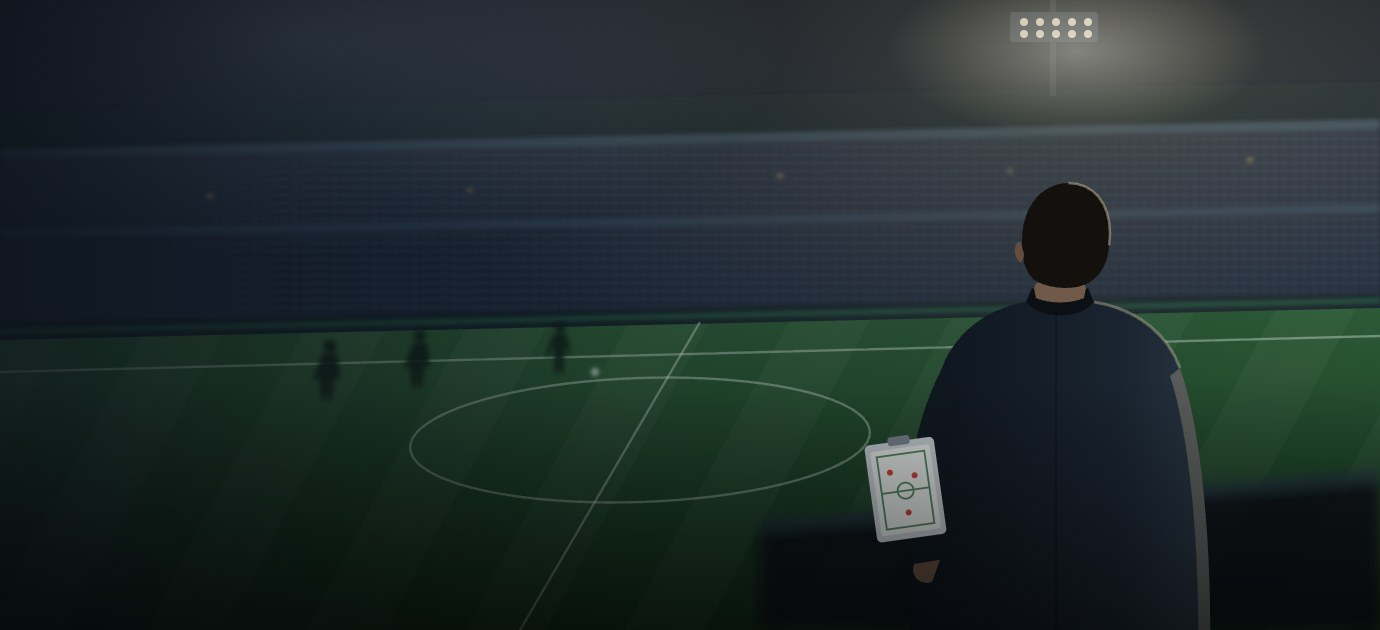
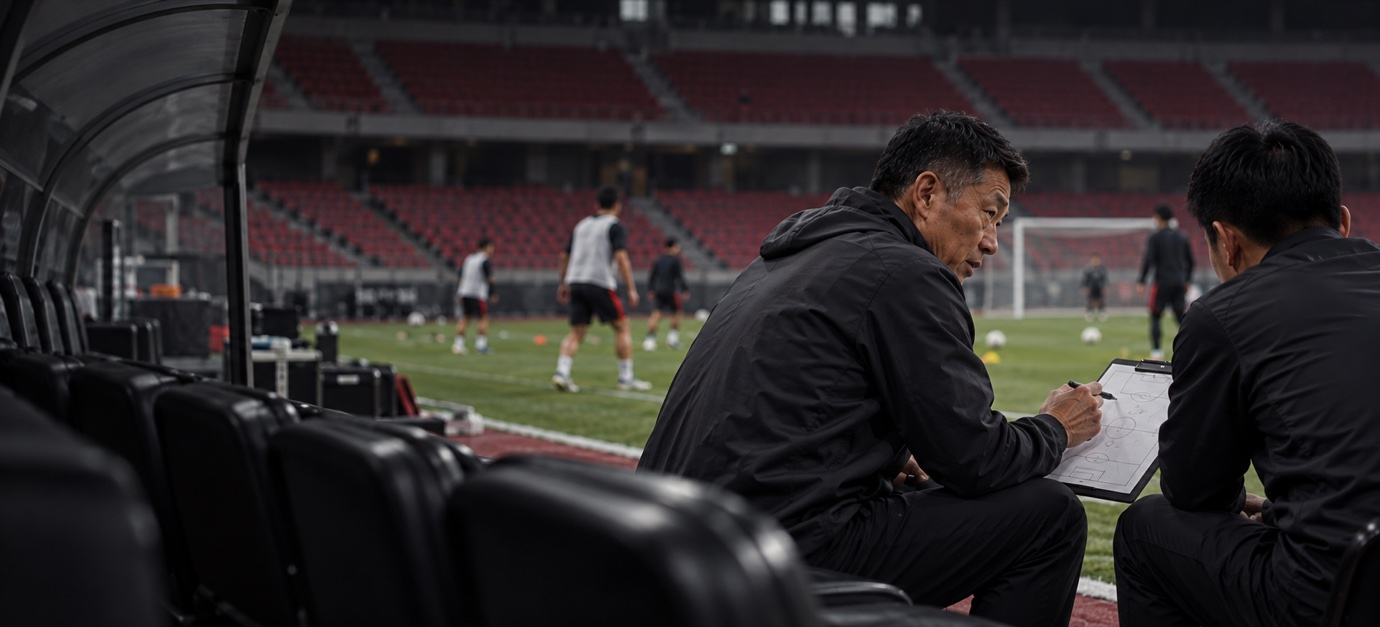
统一两款足球封面为柔光写实摄影

diff --git a/docs/TEST.md b/docs/TEST.md
@@ -776,6 +776,17 @@
 
 后置：无数据写入。
 
+#### `TC-065` 足球封面摄影风格与多端显示 — 对应 `REQ-010` · 级别: 回归 · 执行者: AI · 源自缺陷 2026-10-22 足球两款封面为扁平插画而其他体育封面为摄影
+
+前置：本地或测试站新建独立浏览器，以篮球巨星和CBA经理现有封面为风格参考。
+
+| # | 操作 | 预期 |
+| --- | --- | --- |
+| 1 | 搜索足球，观察两张卡片 | 两款均为柔光、低反光写实体育摄影；人物和环境有真实纹理 |
+| 2 | 在320、390、768、1440宽度打开两款详情 | 球员和经理主题各自可辨；标题可读，图片不拉伸，无页面横向溢出或脚本异常 |
+
+后置：关闭测试浏览器，不读写玩家原有存档。
+
 ## 5. 回归策略
 
 - **全量轮**：首次成稿、看板或上报接口改版、数据表结构变更。
@@ -794,6 +805,8 @@
 | RUN-060 | 2026-10-22 | 本地 | 2026-10-22接手版 | AI(Chrome、Node) | 局部(TC-060、TC-061、TC-062) | 通过 3/3 |
 | RUN-063 | 2026-10-22 | 本地 | 全部最终试玩整合版 | AI(Chrome) | 局部(TC-063) | 通过 1/1 |
 | RUN-064 | 2026-10-22 | 预发 | 6c945db 测试站 | AI(Chrome、HTTP) | 线上冒烟(TC-063) | 通过 1/1 |
+| RUN-065 | 2026-10-22 | 预发 | 9953bf4 旧足球封面 | AI(Chrome、视觉核对) | 局部(TC-065) | 通过 0/1 · 失败 1 |
+| RUN-066 | 2026-10-22 | 本地 | 足球摄影封面替换版 | AI(Chrome、视觉核对) | 复测(RUN-065:TC-065) | 通过 1/1 |
 | RUN-061 | 2026-10-22 | 本地 | 新足球目录格式修复前 | AI(Node) | 局部(TC-064) | 通过 0/1 · 失败 1 |
 | RUN-062 | 2026-10-22 | 本地 | 新足球目录格式修复后 | AI(Node) | 复测(RUN-061:TC-064) | 通过 1/1 |
 | RUN-001 | 2026-10-20 | 本地 | 7bb337f 加工作区未提交的统计与看板改动 | AI(Playwright + Edge 无头、curl) | 全量至 TC-016 | 通过 15/16 · 失败 1 |
@@ -1140,3 +1153,9 @@ RUN-062 证据：执行 `node scripts/check-catalog-titles.mjs`，实际调用Wo
 RUN-063 证据：`docs/test-runs/RUN-063/result.json` 记录15款游戏各在390与1440宽度打开并点击前台按钮，共30次无脚本错误、无页面横向溢出；`store-result.json` 记录15款目录与两款足球的搜索、详情入口。截图同目录。所有游戏以独立浏览器环境验证，未读写玩家原有存档。
 
 RUN-064 证据：测试站自动部署 https://github.com/Bearisbug/changju/actions/runs/39803578510 成功；`docs/test-runs/RUN-064/online-hashes.json` 记录首页及全部15款游戏与本地产物SHA256一致。`result.json` 记录线上15款×手机/桌面30次入口检查，无脚本错误和页面横向溢出；`store-result.json` 记录15款目录及两款足球搜索/详情。采用独立浏览器上下文并屏蔽统计请求，不读取玩家存档。正式站未发布。
+
+| 轮次 | 用例 | 结果 | 现象 / 证据 | 跟进 |
+| --- | --- | --- | --- | --- |
+| RUN-065 | TC-065 | 失败 | 第1步两款为扁平插画，未与篮球系列摄影风格一致；证据 `docs/test-runs/RUN-065/store-390.png` | 更换摄影封面，RUN-066通过 |
+
+RUN-066 证据：`docs/test-runs/RUN-066/result.json` 记录320/390/768/1440四宽两款详情的加载与溢出指标；商店搜索、详情截图同目录。目视确认球员训练与教练战术沟通主题、真实材质、柔和光线及较暗标题区，与既有篮球系列一致；无图片拉伸、页面横向溢出和脚本异常。平台布局与玩法未修改。源图及提示词保存在足球项目covers目录，由内置image_gen生成。

diff --git a/docs/DESIGN.md b/docs/DESIGN.md
@@ -15,6 +15,7 @@
 
 | 日期 | 版本 | 涉及 ID | 一句话 | 类型 |
 | --- | --- | --- | --- | --- |
+| 2026-10-22 | v0.16 | REQ-010 | 足球两款封面统一为柔光、低反光的写实体育摄影 | 界面、拍板 |
 | 2026-10-22 | v0.15 | REQ-010 | 补齐历史批准的经营与剧情细项，核验15款入口和看板中文名 | 功能、缺陷修复 |
 | 2026-10-22 | v0.14 | REQ-010、REQ-020、REQ-021、FLOW-PLAY | 接手14款游戏，加入两款足球并发布测试站；正式站不变 | 功能、缺陷修复、拍板 |
 | 2026-10-22 | v0.13 | REQ-020、REQ-021、FLOW-PLAY、PAGE-STORE、PAGE-PLAYER、PAGE-BACKUP | 手机竖屏下平台页面改紧凑排版，游戏页顶栏压成一行；五款平台自管游戏按竖屏重排 | 界面 |
@@ -1012,3 +1013,7 @@ N/A — 尚未上线，上线 14 天后按 §3 补实际值。
 保持既有游戏的目录标识和平台存档隔离。新版的迁移由各游戏负责，旧档原件不删除；平台继续按文件大小刷新缓存。所有文件先通过质量门，再通过既有test分支自动发布及逐文件线上校验；正式分支不变。
 
 本轮新增足球目录遵循现有名称读取契约：商店与看板均显示“足球巨星”“绿茵经理”，不回退到英文游戏标识。验收 TC-064。
+
+## 50. 足球封面风格统一 — REQ-010
+
+足球巨星与绿茵经理采用与篮球、F1系列一致的写实体育摄影封面，柔和自然光、低反光、克制暗色。球员版表现训练场上的球员与足球，经理版表现场边教练和战术沟通。图像不带文字，标题继续由页面叠加；左侧保留较暗留白，主角位于右侧。商店、精选、详情和游戏库共用各自同一张封面，维持原图片路径、标题和游戏入口。
